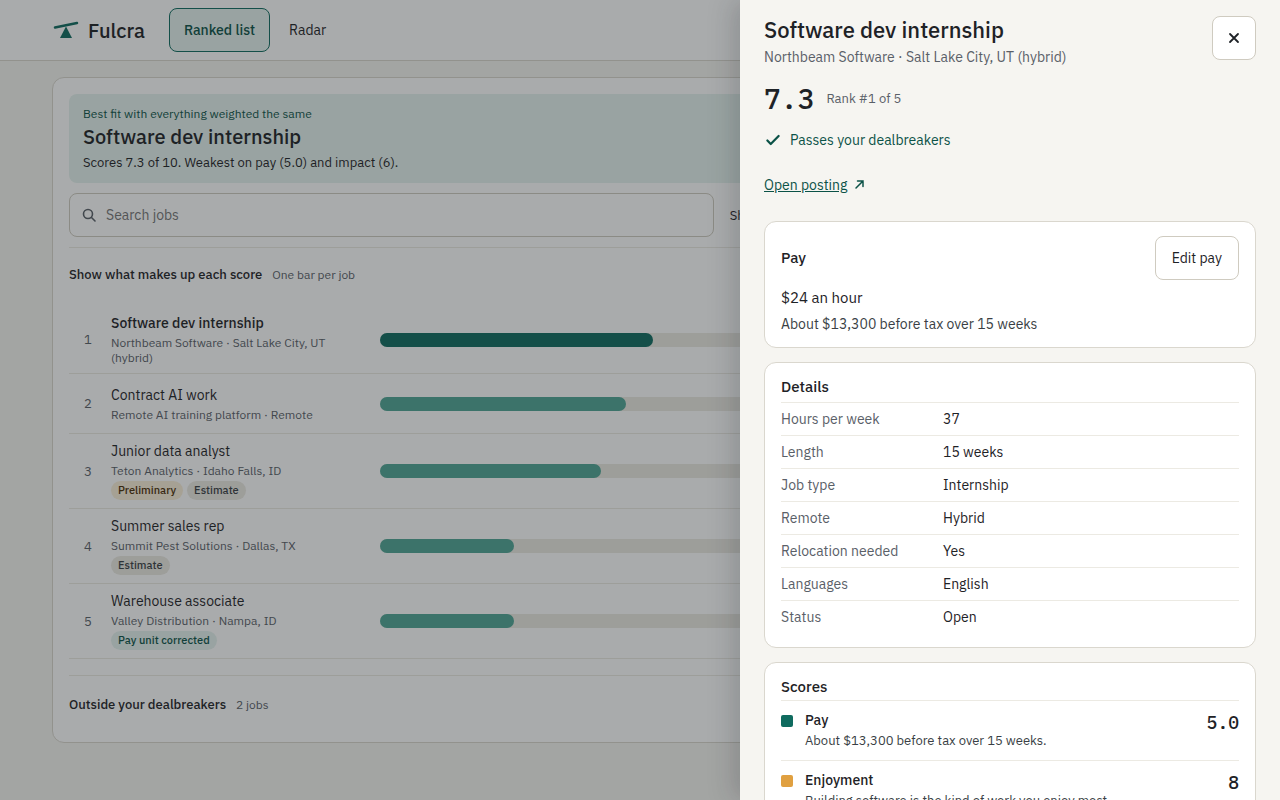
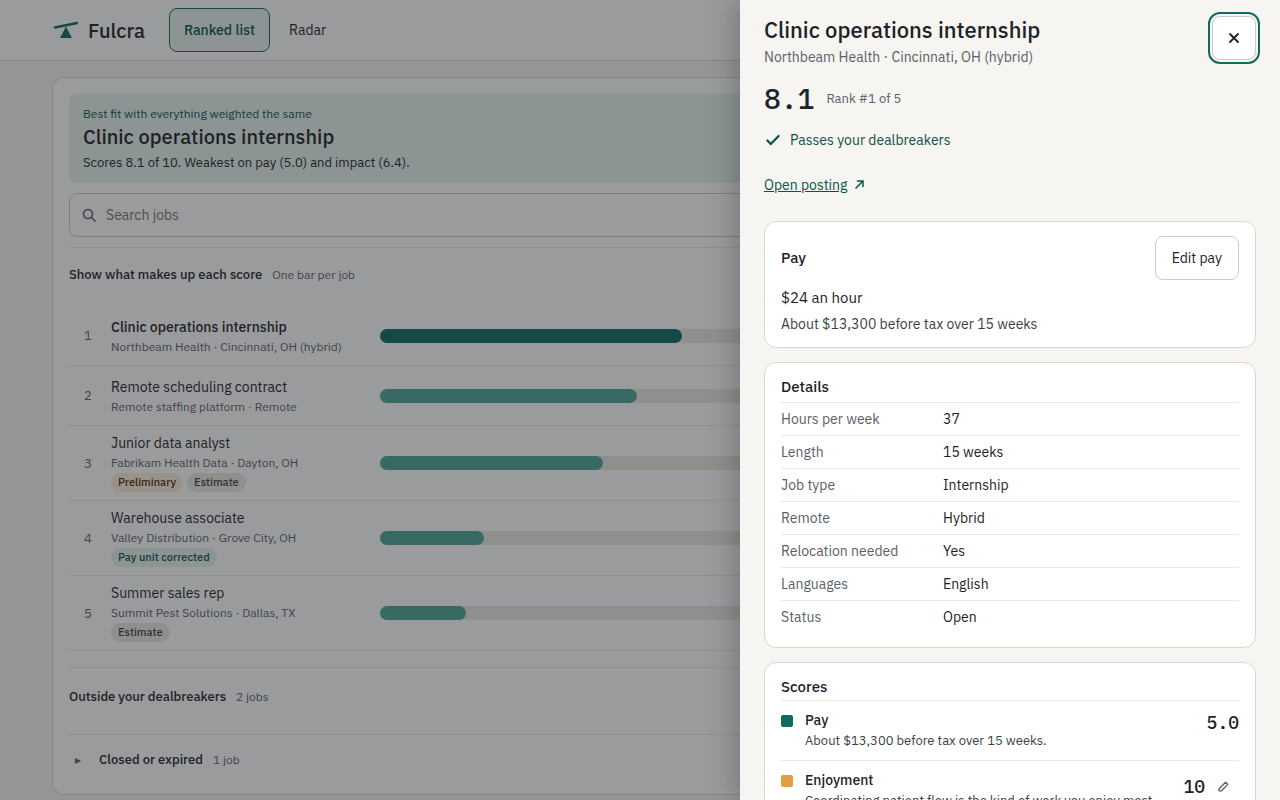
Docs for the feedback round
README, PRIVACY (half-price batch files and their deletion, Outlook sender
check), CHANGELOG, blueprint v1.3 changelog, and store screenshots
regenerated with the neutral sample data.

Claude-Session: https://claude.ai/code/session_01WQEhJPiwENJrbVR7HP5TJw

diff --git a/README.md b/README.md
@@ -30,7 +30,7 @@ Fulcra uses OpenAI to read and score jobs, with your own API key. OpenAI bills y
 3. Open **API keys** and select **Create new secret key**.
 4. Paste it into Fulcra's setup and select **Test key**.
 
-**Cost:** scoring costs about $1.20 per 1,000 jobs on the Standard model (about $4.50 on Sharper). Most people spend under $1 a month.
+**Cost:** scoring costs about $1.20 per 1,000 jobs on the Standard model (about $4.50 on Sharper). Most people spend under $1 a month. Before any large batch (an email import, re-scoring after you change what you score, or Re-score all), Fulcra shows the count and cost and lets you pick **Score now**, **Half price** (OpenAI's Batch API: half the cost, finished within 24 hours and usually much sooner), or **Later**.
 
 **Set a spend limit** in your OpenAI account under Limits, so costs can never surprise you.
 
@@ -38,9 +38,11 @@ Fulcra uses OpenAI to read and score jobs, with your own API key. OpenAI bills y
 
 - **Score a posting:** open a job posting, select the Fulcra icon, then **Score this job**. You can also press `Alt+Shift+F`, or right-click the page or a link and choose **Score this job with Fulcra**.
 - **Paste a link or text:** in the popup, paste a job link, or the text of an offer with no posting, like a message from a friend.
-- **Job alert emails:** in Settings > Job alert emails, connect Gmail or Outlook. Once a day (or as often as you choose), Fulcra opens your inbox in a minimized window, reads new LinkedIn and Handshake job alerts, and closes it. Your emails stay marked unread, and nothing else in your inbox is read. Jobs from alerts get a **Preliminary** score from the email; open the posting and Fulcra upgrades it to a full score.
+- **Job alert emails:** in Settings > Job alert emails, connect Gmail or Outlook (and pick which Gmail account, if you're signed in to more than one). Once a day (or as often as you choose), Fulcra opens your inbox in a minimized window, reads LinkedIn and Handshake job alerts that arrived since the last check, and closes it. **Import past alerts** reads the last 7, 30, or 90 days, or everything, with an estimate of the jobs and cost for each. Your emails stay marked unread, and nothing else in your inbox is read. Jobs from alerts get a **Preliminary** score from the email; open the posting and Fulcra upgrades it to a full score. Promotions and other non-job emails are left out, and anything the AI decides isn't a job listing is folded into **Not job listings**.
 - **Compare:** the **Ranked list** is home. The **Radar** compares up to three jobs across everything you care about.
-- **Disagree with a score?** Open the job and use **Use my own score**. If you keep correcting the same thing, Fulcra offers to change that weight.
+- **Disagree with a score?** Open the job and select the pencil next to the score to type your own. If you keep correcting the same thing, Fulcra offers to change that weight.
+- **Closed postings:** when a posting you open says it's no longer accepting applications, Fulcra moves it to **Closed or expired** at the bottom of the list.
+- **Light or dark:** the sun/moon button in the header, or Settings > Appearance (it follows your system by default).
 
 ## How scores work
 
@@ -56,6 +58,8 @@ and the pay score is
 
 where G is your pay goal, or the best take-home among your open jobs if you didn't set one. Taxes aren't modeled; everything is "before tax." When a posting has no pay, the model estimates it and Fulcra labels it **Estimate**. When a number is far off for its unit (like $16 a year), Fulcra asks the model which unit was meant and shows **Pay unit corrected** with an Undo.
 
+**Spread across your jobs.** By default (Settings > Scoring), each dimension's AI scores are stretched across your open jobs so the best one on it shows 10 and the weakest shows 1, which makes small differences easy to see. It needs at least three scored jobs and at least a point of difference; your own scores are never stretched. Turn it off to see the raw scores.
+
 **Overall score.** With your weights w (0 to 10) and the scores s:
 
 > overall = Σ (w × s) ÷ Σ w
@@ -66,7 +70,7 @@ over the dimensions that have a score. If every weight is 0, they count equally.
 
 ## Privacy
 
-- **What's sent to OpenAI:** the job text you score, plus your answers from About you and your dimension definitions. Nothing else, ever.
+- **What's sent to OpenAI:** the job text you score, plus your answers from About you and your dimension definitions. Nothing else, ever. Half-price batches upload the same text as a file to your OpenAI account; Fulcra deletes it when the results come back.
 - **What stays on your computer:** everything else, in the extension's own storage.
 - **Your key** is stored in Chrome's extension storage on this computer only. It never syncs to your Google account and is only ever sent to `api.openai.com`. **It is not encrypted at rest**: anyone with access to your computer's browser profile could read it. That's why a spend limit matters.
 - **No analytics** and no servers. Fulcra doesn't phone home.
@@ -85,7 +89,7 @@ See [PRIVACY.md](PRIVACY.md) for details.
 - Requires a paid OpenAI API account. There is no free scoring option.
 - Scores are a model's judgment from the posting text and can be wrong. Reasons are shown so you can judge, and you can always use your own score.
 - Pay ignores taxes, benefits, and equity unless the posting states a total. Estimated pay is labeled.
-- Email checks need Chrome to be open and you signed in to Gmail or Outlook in the same browser profile. Only the first Gmail account (`u/0`) is checked by default. If you're signed in to more than one, change it under Settings > Developer > Gmail account number (`u/1` is 1).
+- Email checks need Chrome to be open and you signed in to Gmail or Outlook in the same browser profile. Outlook reading is untested so far.
 - Email reading depends on Gmail's and Outlook's page layouts, which can change without notice and break checks until Fulcra is updated.
 - Jobs from alert emails get only a preliminary score until you open the posting. Fulcra can't always tell from an email that a job has closed.
 - LinkedIn, Handshake, and Indeed layouts can change and break page reading. Pasting text always works.

diff --git a/docs/blueprint.md b/docs/blueprint.md
@@ -1,6 +1,6 @@
 # Fulcra: project blueprint
 
-**Version 1.2, October 10, 2026.** Owner: Justin. Audience: the AI coding agent working in the Fulcra repository.
+**Version 1.3, October 10, 2026.** Owner: Justin. Audience: the AI coding agent working in the Fulcra repository.
 
 > **Read this first, agent.** The work happens in two phases, and you must not skip ahead.
 >
@@ -12,6 +12,12 @@
 
 ## Changelog
 
+- **v1.3 (October 10, 2026, first feedback round):** changes after Justin used the build. Where this list and an older section disagree, this list wins.
+  - **Email (12.3):** Gmail selectors checked against live Gmail (the Back button is a `title` attribute; counts can read "of many"). Imports split date ranges until each fits one page, so they read past the newest 50 emails; scheduled checks look back to the last good check (2 to 30 days). Checks report their result to the page and never fail silently; switching Gmail/Outlook doesn't need a disconnect; the Gmail account is picked in the email settings. Outlook tries outlook.live.com then outlook.office.com and must pass two guards (the search changes the list; each opened message shows an alert sender). The Handshake sender is `handshake@g.joinhandshake.com`. LinkedIn alerts hold about 6 jobs each. Promotional link text is never read as a job, and the model's `not_a_job` flag folds non-jobs away.
+  - **Scoring (5.7, 5.9):** scores are spread across the person's open jobs per dimension by default (`scoring.spread`), from 3 jobs and a 1-point range up; overrides aren't stretched. The prompt has one 1-10 scale, treats every detail as evidence, asks for the reason before the score, allows half points, and works out remote, relocation (against home base), languages, and job type. Zero pay counts as missing. `tests/live/calibration.live.test.ts` measures spread and blank facts.
+  - **Cost (5.2):** six requests in flight. Large batches offer Score now, Half price (OpenAI Batch API, files deleted afterwards), or Later; Re-score all uses the same banner.
+  - **UI (9, 10):** ranked list pages (10 to 100 or all) with closed postings and non-jobs in folded groups; the radar takes any number of jobs and draws missing scores in red; scores are edited in place with a pencil; "Compare pay over" became "How far ahead are you planning?" in months; setup's last step summarizes the setup; full dark mode with a header toggle and Settings > Appearance.
+  - **Sample data (23):** the sample person is now neutral (Columbus, healthcare operations) with the same scores, so the worked examples still hold; demo/sample-data.json is the source of truth over the copy in section 23.
 - **v1.2 (October 10, 2026, Phase B build):** the extension is built (sections 1 to 22). Things the build settled or changed:
   - **Models (5.2):** both model IDs are confirmed in the live API model list. These models reject reasoning effort `minimal`, so Fulcra uses `none`. Prices are still unverified. The list also shows a `gpt-6-luna` model, not evaluated.
   - **Ranking (9.2):** jobs with no scores yet are not ranked; the list shows them in their own "Not scored yet" group. Ties keep the older job first.
@@ -801,7 +807,7 @@ No `<all_urls>`. Other sites work through `activeTab` when the user clicks.
 | `profile.life.desc` | Time, energy, and staying close to home. |
 | `profile.custom` | Custom |
 | `setup.priorities.describe` | Describe it in your own words (optional) |
-| `setup.priorities.describeHint` | Example: I want to stay in Rexburg and I hate cold calling. |
+| `setup.priorities.describeHint` | Example: Pay matters most, but I don't want a long commute or weekend shifts. |
 | `setup.priorities.describeButton` | Suggest changes |
 | `setup.priorities.suggesting` | Thinking… |
 | `setup.priorities.suggestWeight` | Raise {dimension} from {from} to {to} |

diff --git a/PRIVACY.md b/PRIVACY.md
@@ -1,12 +1,14 @@
 # Fulcra privacy policy
 
-_Last updated: October 10, 2026_
+_Last updated: October 10, 2026 (half-price scoring added)_
 
 Fulcra is a browser extension that scores job postings. It has no servers, no accounts, and no analytics. This page explains exactly what it does with your data.
 
 ## What leaves your computer
 
 Only one thing, and only when a job is scored: Fulcra sends the job listing text, your answers from "About you" (the work you're aiming for, what you enjoy, your home base, your languages, and whether you're open to remote work or relocating), and the definitions of what you've chosen to score to **OpenAI's API at `api.openai.com`**, using your own OpenAI API key. OpenAI's handling of that data is covered by [OpenAI's policies](https://openai.com/policies). Fulcra asks OpenAI not to store responses (`store: false`).
+
+**Half-price scoring.** If you choose Half price for a large batch, Fulcra sends the same information through OpenAI's Batch API: it uploads the requests as a file to your OpenAI account, and OpenAI returns the results as another file. Fulcra deletes both files once the results are in (or, if you cancel, once the cancel completes).
 
 Fulcra sends nothing else, to anyone, ever. It has no analytics, crash reporting, or telemetry, and it loads no remote code or fonts.
 
@@ -20,7 +22,7 @@ Fulcra sends nothing else, to anyone, ever. It has no analytics, crash reporting
 
 ## Job alert emails
 
-If you connect Gmail or Outlook, Fulcra opens your inbox in a minimized window on the schedule you choose, searches only for emails from the alert senders listed in Settings (LinkedIn and Handshake by default), reads the job cards in those emails, marks them unread again, and closes the window. It reads no other email. It uses your existing signed-in session in Chrome and never sees your password. Email content is not sent anywhere; only the job title, company, location, and pay from each alert are sent to OpenAI for a preliminary score.
+If you connect Gmail or Outlook, Fulcra opens your inbox in a minimized window on the schedule you choose, searches only for emails from the alert senders listed in Settings (LinkedIn and Handshake by default), reads the job cards in those emails, marks them unread again, and closes the window. It reads no other email: in Outlook, Fulcra checks that each message it opens shows an alert sender's address and stops if one doesn't. It uses your existing signed-in session in Chrome and never sees your password. Email content is not sent anywhere; only the job title, company, location, and pay from each alert are sent to OpenAI for a preliminary score.
 
 ## Job pages
 

diff --git a/CHANGELOG.md b/CHANGELOG.md
@@ -12,3 +12,8 @@ First build of Fulcra.
 - First-run setup, full settings, export, and delete everything.
 - Job alert emails from Gmail and Outlook with preliminary scores, scheduled checks, and strong-match notifications.
 - Right-click menu, Alt+Shift+F shortcut, and toolbar badge.
+- Half-price scoring through OpenAI's Batch API for large batches, with the cost shown before anything is spent; six scoring requests at once otherwise.
+- Scores spread across your jobs, a stricter scoring prompt, and facts (remote, relocation, languages) filled in instead of left blank. Re-score all.
+- Edit a score in place; pages of 10 to 100 jobs; closed postings and non-job emails fold away; the radar compares any number of jobs, with missing scores in red.
+- Email checks report what happened, read past imports in full, pick the Gmail account, and switch between Gmail and Outlook directly.
+- Dark mode.
